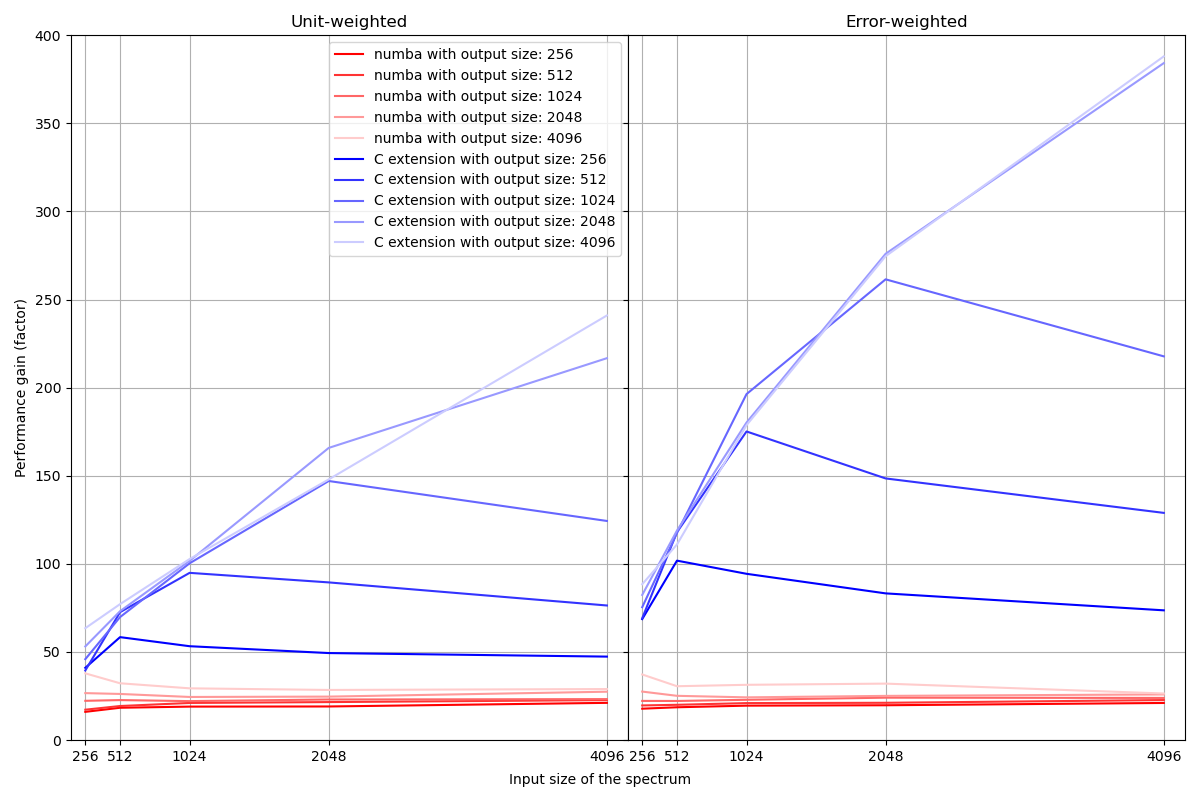
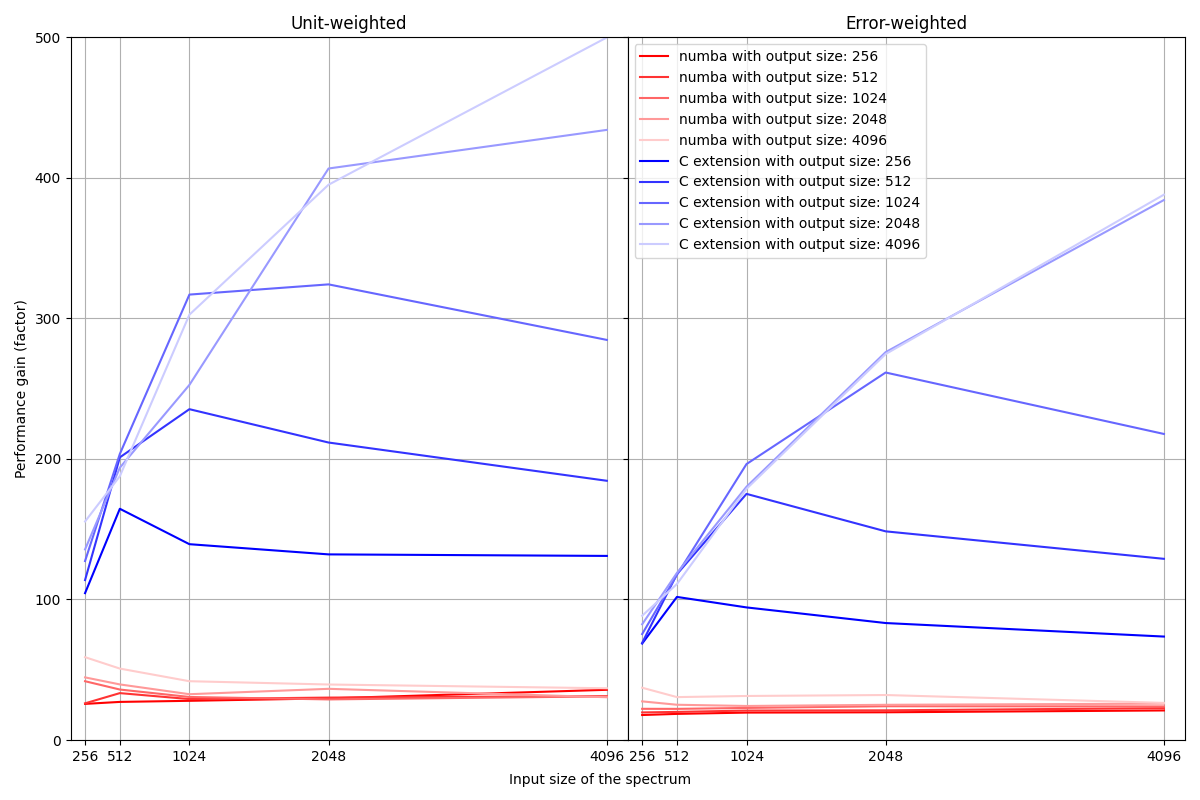
updated various github actions versions

diff --git a/speed_test/plot_speed_test_results.py b/speed_test/plot_speed_test_results.py
@@ -27,7 +27,6 @@ for j, (p, n, size) in enumerate(zip(sp_time_array, sn_time_array, outsizes)):
     axs[0].plot(
         insizes,
         p / n,
-        label=f"numba with output size: {size}",
         color=red_gradient[j],
     )
 
@@ -35,7 +34,6 @@ for j, (p, c, size) in enumerate(zip(sp_time_array, sc_time_array, outsizes)):
     axs[0].plot(
         insizes,
         p / c,
-        label=f"C extension with output size: {size}",
         color=blue_gradient[j],
     )
 
@@ -50,6 +48,7 @@ for k, (p_e, n_e, size) in enumerate(
         insizes,
         p_e / n_e,
         color=red_gradient[k],
+        label=f"numba with output size: {size}",
     )
 
 for k, (p_e, c_e, size) in enumerate(
@@ -63,12 +62,13 @@ for k, (p_e, c_e, size) in enumerate(
         insizes,
         p_e / c_e,
         color=blue_gradient[k],
+        label=f"C extension with output size: {size}",
     )
 
 axs[0].grid()
 axs[1].grid()
 
-axs[0].legend()
+axs[1].legend()
 
 axs[0].xaxis.set_major_formatter(ScalarFormatter(useMathText=False))
 axs[1].xaxis.set_major_formatter(ScalarFormatter(useMathText=False))
@@ -84,8 +84,8 @@ axs[1].xaxis.set_minor_locator(NullLocator())
 axs[0].set_xlim(150, 4250)
 axs[1].set_xlim(150, 4250)
 
-axs[0].set_ylim(0, 400)
-axs[1].set_ylim(0, 400)
+axs[0].set_ylim(0, 500)
+axs[1].set_ylim(0, 500)
 
 axs[1].set_yticklabels([])
 

diff --git a/speed_test/speed_test.py b/speed_test/speed_test.py
@@ -1,9 +1,8 @@
 from timeit import Timer
 
 import numpy as np
-from matplotlib import pyplot as plt
-from spectres import spectres as sp
-from spectres import spectres_numba as sn
+from spectres.spectral_resampling import spectres as sp
+from spectres.spectral_resampling_numba import spectres_numba as sn
 from spectresc import spectres as sc
 
 
@@ -113,7 +112,7 @@ if __name__ == "__main__":
             timer = Timer(
                 stmt=f"call_spectresn({size_i}, {size_o})",
                 setup=(
-                    "from spectres import spectres_numba as sn; from __main__"
+                    "from spectres.spectral_resampling_numba import spectres_numba as sn; from __main__"
                     " import call_spectresn"
                 ),
             )
@@ -193,7 +192,7 @@ if __name__ == "__main__":
             timer = Timer(
                 stmt=f"call_spectresn_err({size_i}, {size_o})",
                 setup=(
-                    "from spectres import spectres_numba as sn; from __main__"
+                    "from spectres.spectral_resampling_numba import spectres_numba as sn; from __main__"
                     " import call_spectresn_err"
                 ),
             )
